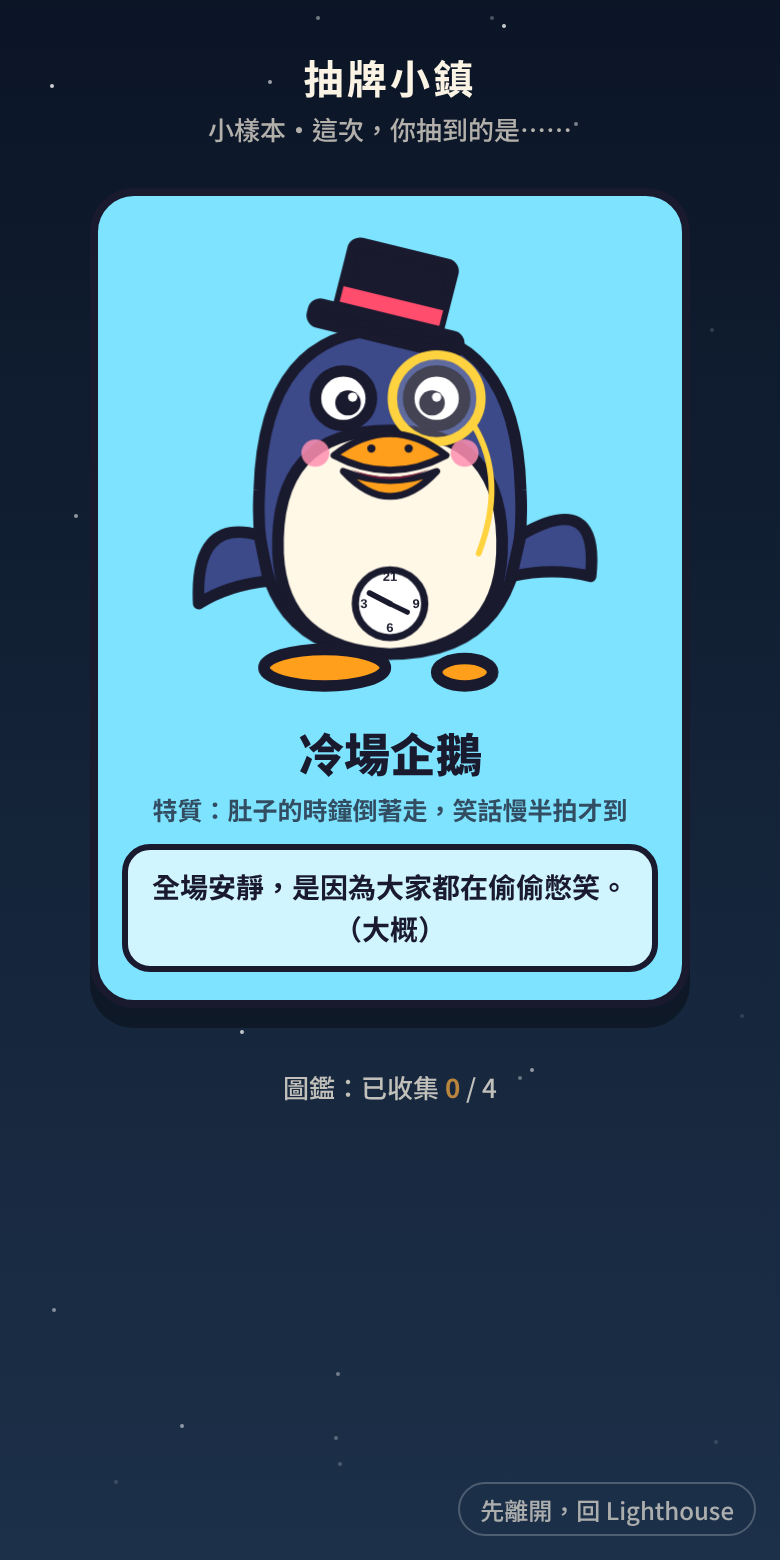
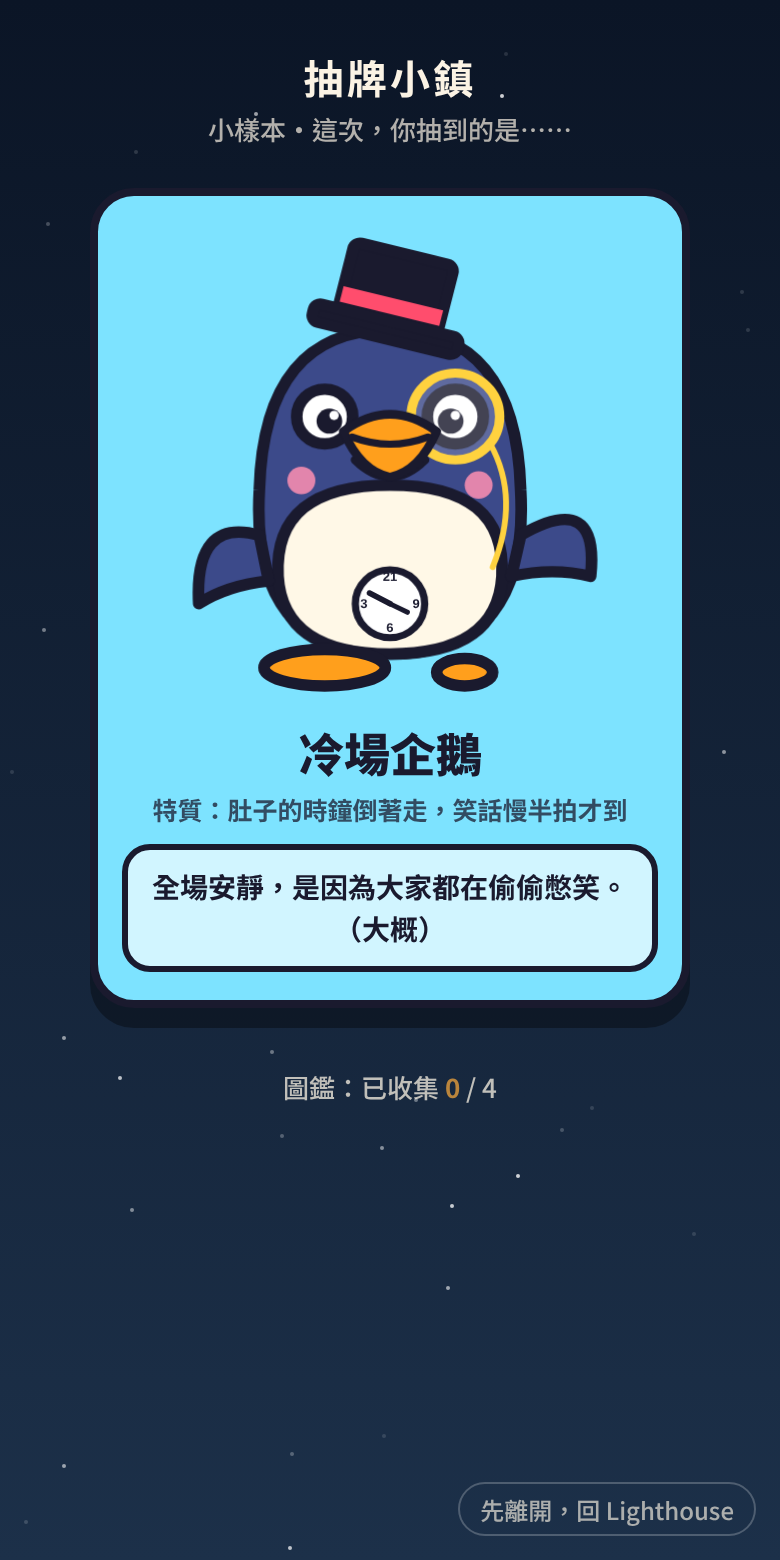
Lighthouse: 抽牌小樣本，企鵝嘴喙依參考圖改為臉中央的菱形小嘴
Claude-Session: https://claude.ai/code/session_01QMXbFy7GatcecM2zJaJAS8

Changed region(s): [[0.3385, 0.2154, 0.6769, 0.4], [0.5231, 0.4, 0.6154, 0.4308], [0.3692, 0.3692, 0.4308, 0.4308]]

diff --git a/lighthouse/cards-sample.html b/lighthouse/cards-sample.html
@@ -150,16 +150,15 @@ const ART = {
   penguin: `<svg viewBox="0 -16 200 216"><g class="wob">
     <path d="M100 30 Q154 30 156 100 Q160 172 100 172 Q40 172 44 100 Q46 30 100 30Z" fill="#3c4a8a" ${o}/>
     <g transform="rotate(14 100 22)"><rect x="78" y="-4" width="44" height="34" rx="3" fill="#1a1a2e" ${o}/><rect x="68" y="26" width="64" height="8" rx="3" fill="#1a1a2e" ${o}/><rect x="78" y="16" width="44" height="7" fill="#ff4d6d"/></g>
-    <path d="M100 74 Q150 74 148 128 Q146 170 100 172 Q54 170 52 128 Q50 74 100 74Z" fill="#fff8e7" ${o}/>
-    <g class="blink"><circle cx="80" cy="60" r="12" fill="#fff" ${o}/><circle cx="82" cy="62" r="5.5" fill="${INK}"/><circle cx="84" cy="59.5" r="2" fill="#fff"/></g>
-    <g class="blink"><circle cx="120" cy="60" r="12" fill="#fff" ${o}/><circle cx="118" cy="62" r="5.5" fill="${INK}"/><circle cx="120" cy="59.5" r="2" fill="#fff"/></g>
-    <circle cx="120" cy="60" r="19" fill="#ffffff" fill-opacity=".18" stroke="#ffd23f" stroke-width="4"/>
-    <path d="M136 72 Q150 96 138 128" fill="none" stroke="#ffd23f" stroke-width="2.5" stroke-linecap="round"/>
-    <circle cx="68" cy="84" r="6" fill="#ff8fb1" opacity=".85"/><circle cx="132" cy="84" r="6" fill="#ff8fb1" opacity=".85"/>
-    <path d="M80 92 Q100 114 120 92 Q100 100 80 92Z" fill="#ff9f1c" stroke="${INK}" stroke-width="3" stroke-linejoin="round"/>
-    <path d="M83 91 Q100 98 117 91 Q100 100 83 91Z" fill="#7a1f3a"/>
-    <path d="M76 85 Q100 66 124 85 Q100 98 76 85Z" fill="#ff9f1c" stroke="${INK}" stroke-width="3" stroke-linejoin="round"/>
-    <circle cx="92" cy="82" r="1.8" fill="${INK}"/><circle cx="108" cy="82" r="1.8" fill="${INK}"/>
+    <path d="M100 98 Q150 98 148 138 Q146 172 100 172 Q54 172 52 138 Q50 98 100 98Z" fill="#fff8e7" ${o}/>
+    <g class="blink"><circle cx="72" cy="68" r="12" fill="#fff" ${o}/><circle cx="74" cy="70" r="5.5" fill="${INK}"/><circle cx="76" cy="67.5" r="2" fill="#fff"/></g>
+    <g class="blink"><circle cx="128" cy="68" r="12" fill="#fff" ${o}/><circle cx="126" cy="70" r="5.5" fill="${INK}"/><circle cx="128" cy="67.5" r="2" fill="#fff"/></g>
+    <circle cx="128" cy="68" r="19" fill="#ffffff" fill-opacity=".18" stroke="#ffd23f" stroke-width="4"/>
+    <path d="M143 80 Q156 104 144 134" fill="none" stroke="#ffd23f" stroke-width="2.5" stroke-linecap="round"/>
+    <circle cx="62" cy="96" r="6" fill="#ff8fb1" opacity=".85"/><circle cx="138" cy="98" r="6" fill="#ff8fb1" opacity=".85"/>
+    <g transform="translate(100 82) scale(1.25) translate(-100 -82)"><path d="M88 86 Q100 98 112 86 Q100 90 88 86Z" fill="#ffc24d" stroke="${INK}" stroke-width="3" stroke-linejoin="round"/>
+    <path d="M84 76 Q100 64 116 76 Q110 90 100 92 Q90 90 84 76Z" fill="#ff9f1c" stroke="${INK}" stroke-width="3" stroke-linejoin="round"/>
+    <path d="M87 78 Q100 83 113 78" fill="none" stroke="${INK}" stroke-width="2.5" stroke-linecap="round"/></g>
     <g transform="translate(100 150) scale(.62) translate(-100 -150)"><circle cx="100" cy="150" r="24" fill="#fff" ${o}/>
     <g class="clk" style="transform-origin:100px 150px"><path d="M100 150 L100 134" stroke="${INK}" stroke-width="4" stroke-linecap="round"/></g>
     <path d="M100 150 L112 156" stroke="${INK}" stroke-width="3.5" stroke-linecap="round"/>
